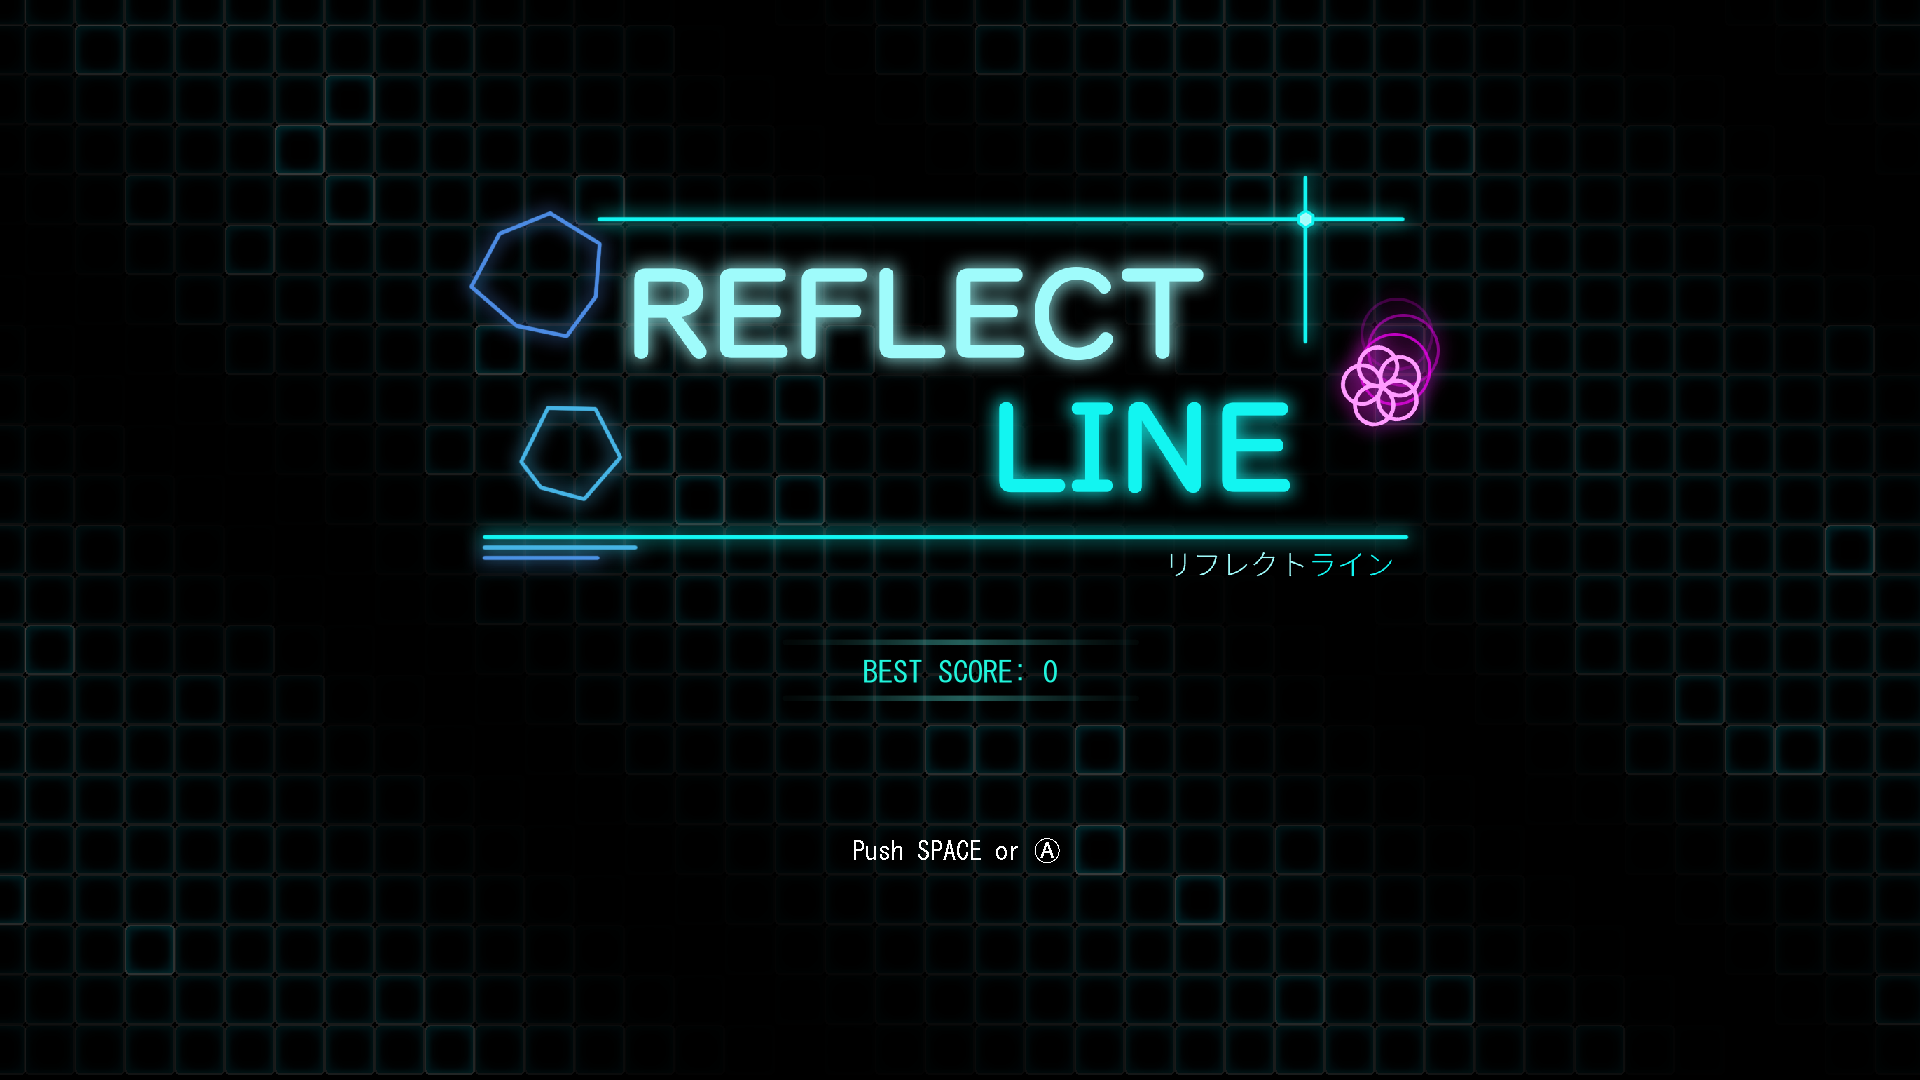
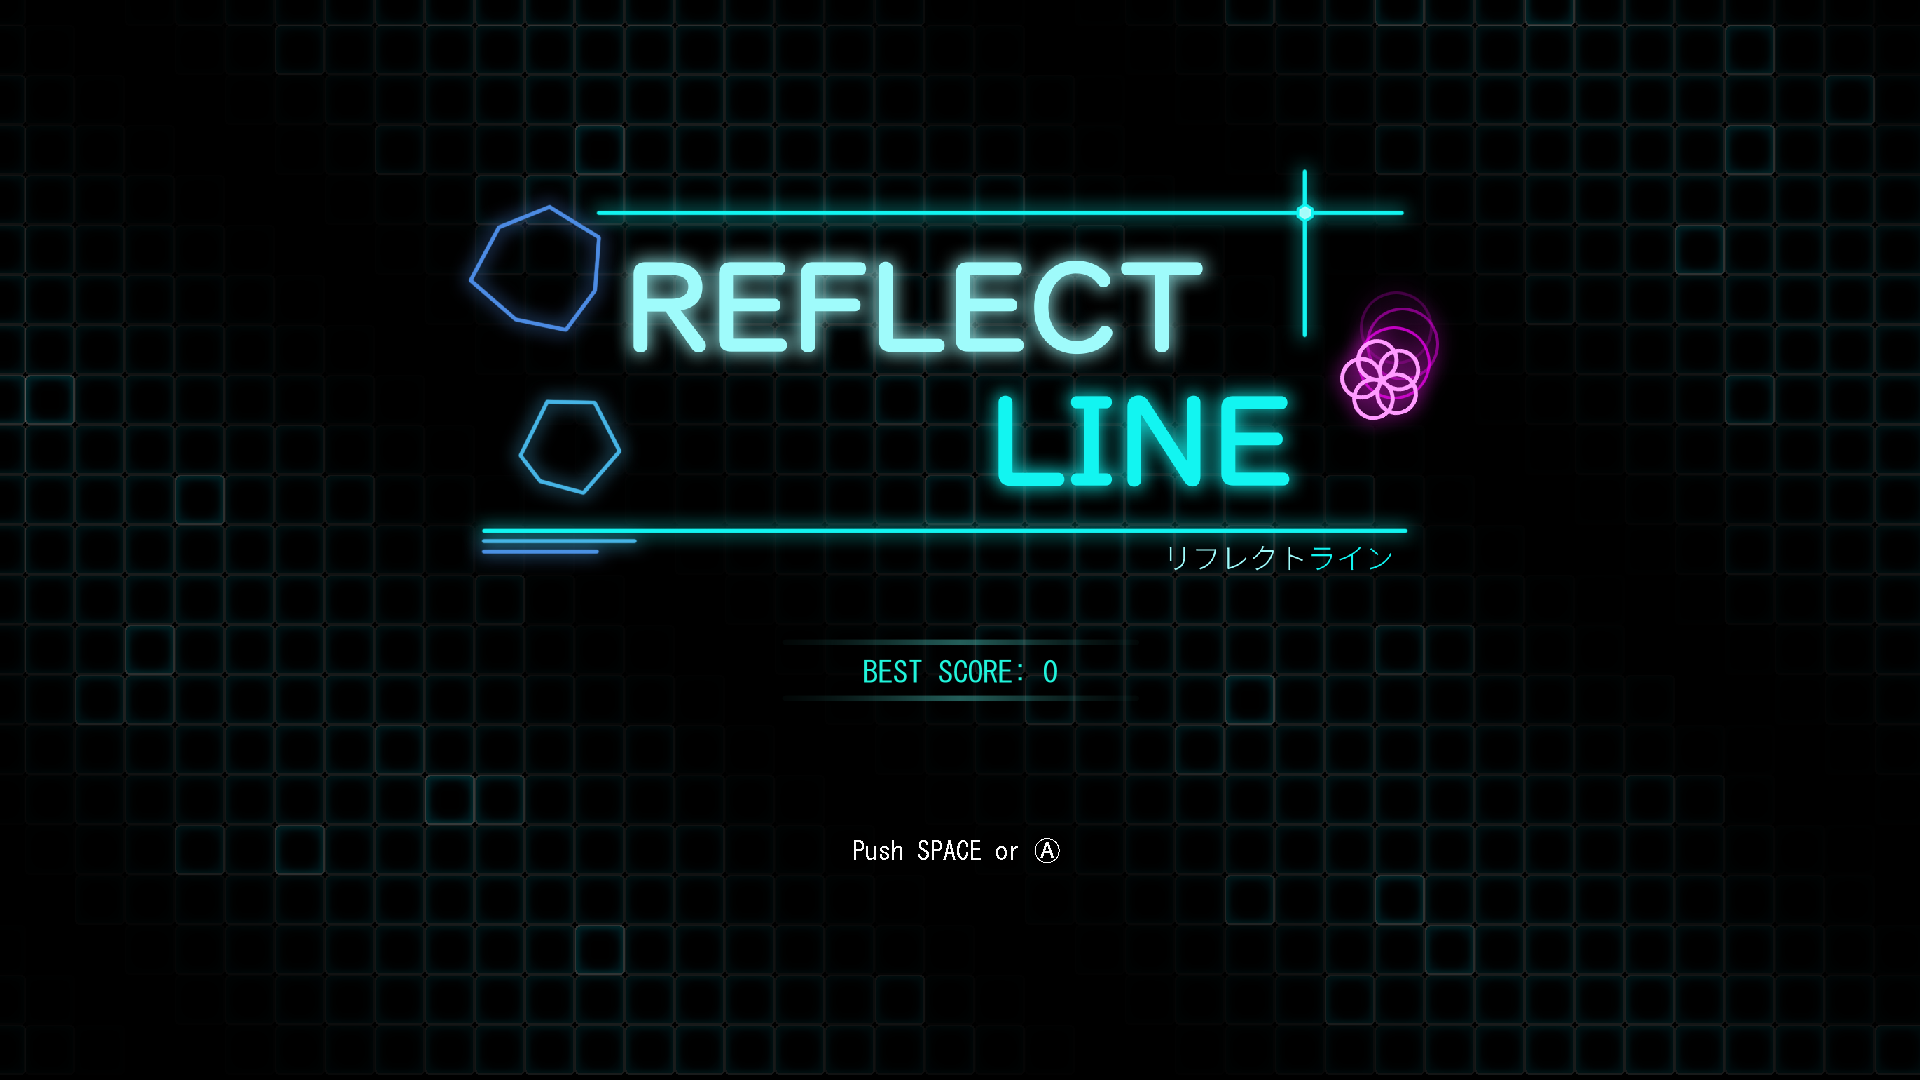
README更新

diff --git a/Csinkyu/GameManager.cpp b/Csinkyu/GameManager.cpp
@@ -251,8 +251,8 @@ void GameManager::Init() {
 	gameData->font3 = CreateFontToHandle(NULL, 35, 1, DX_FONTTYPE_ANTIALIASING);
 	gameData->font4 = CreateFontToHandle(NULL, 40, 1, DX_FONTTYPE_ANTIALIASING);
 	//画像読み込み.
-	DrawImgMng::LoadFile(_T("Resources/Images/REFLINEロゴ_一部.png"),   "logo");
-	DrawImgMng::LoadFile(_T("Resources/Images/REFLINEロゴ.png"),        "logo_all");
+	DrawImgMng::LoadFile(_T("Resources/Images/logo_text_only.png"),     "logo");
+	DrawImgMng::LoadFile(_T("Resources/Images/logo_all.png"),           "logo_all");
 	DrawImgMng::LoadFile(_T("Resources/Images/ui_back_best_score.png"), "ui_back_best_score");
 	DrawImgMng::LoadFile(_T("Resources/Images/new_record.png"),         "new_record");
 	DrawImgMng::LoadFile(_T("Resources/Images/gameover.png"),           "gameover");

diff --git a/README.md b/README.md
@@ -1,5 +1,5 @@
 <p align="center">
-  <img src="_readme_img/タイトルロゴ.png" width="500"><br>
+  <img src="_readme_img/logo_all_black.png" width="500"><br>
 </p>
 
 ---
@@ -11,6 +11,7 @@
 <br>
 
 > ### ゲーム概要
+<img src="_readme_img/ゲーム画面.png">
 <table>
     <tr>
         <th>ジャンル</th>
